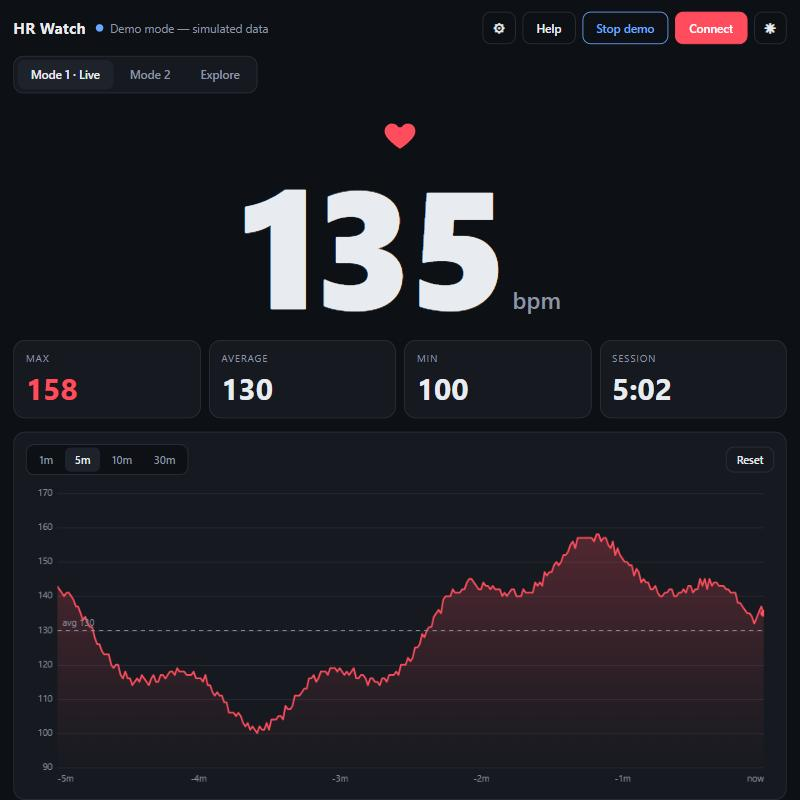
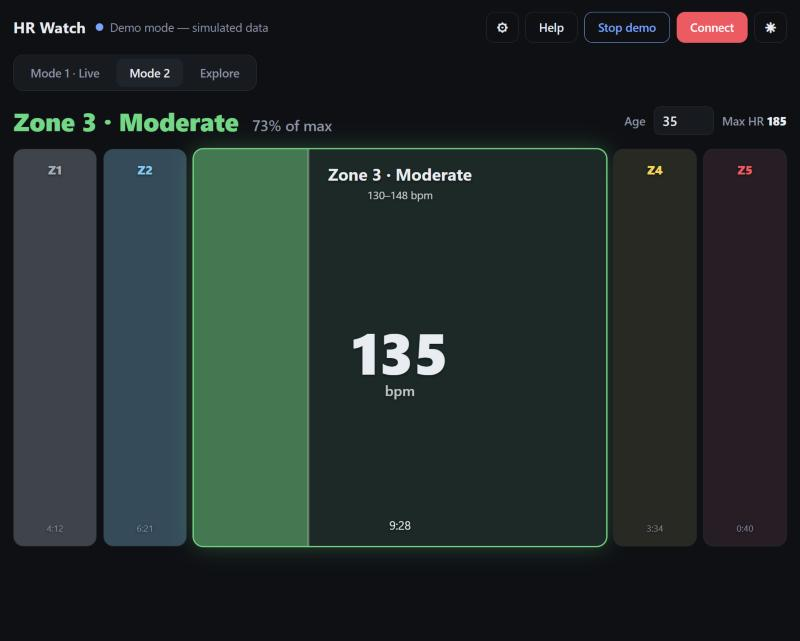
Dim the Mode 2 zone cursor and move it behind the text
The bright white cursor with a glow was drawn on top of the zone
labels and the big BPM number, covering them as it moved across.

- Draw the cursor behind the text layer (z-index 0 vs 1)
- Faint gray instead of white: 22% white in dark mode,
  22% dark gray in light mode
- 3px wide instead of 4px, glow removed (--cursor-glow deleted)

diff --git a/style.css b/style.css
@@ -17,8 +17,7 @@
   --tooltip-bg: #262c35;
   --shadow: rgba(0, 0, 0, 0.5);
   --backdrop: rgba(0, 0, 0, 0.6);
-  --cursor: #ffffff;                       /* Mode 2 zone cursor */
-  --cursor-glow: rgba(255, 255, 255, 0.8);
+  --cursor: rgba(255, 255, 255, 0.22);     /* Mode 2 zone cursor: faint, sits behind the text */
   --zone-shadow: 0 1px 3px rgba(0, 0, 0, 0.5);
   --radius: 14px;
   --beat: 1s;
@@ -45,8 +44,7 @@
   --tooltip-bg: #ffffff;
   --shadow: rgba(20, 30, 50, 0.16);
   --backdrop: rgba(20, 25, 35, 0.35);
-  --cursor: #121820;
-  --cursor-glow: rgba(18, 24, 32, 0.35);
+  --cursor: rgba(18, 24, 32, 0.22);
   --zone-shadow: none;
   /* darker zone colors so they stay readable on white */
   --z1: #7d8794;
@@ -278,13 +276,13 @@ canvas { position: absolute; inset: 0; width: 100%; height: 100%; display: block
 .zone-bpm small { display: block; font-size: 0.25em; font-weight: 600; opacity: 0.8; margin-top: 4px; }
 .zone.active .zone-bpm { display: block; }
 
-/* the cursor marking where you are inside the zone */
+/* the cursor marking where you are inside the zone:
+   a faint gray line drawn behind the text (z-index 0 < .zone-content's 1), so it never covers the BPM */
 .zone-cursor {
-  position: absolute; top: 0; bottom: 0; z-index: 2;
+  position: absolute; top: 0; bottom: 0; z-index: 0;
   left: var(--pos, 0%);
-  width: 4px; margin-left: -2px;
+  width: 3px; margin-left: -1.5px;
   background: var(--cursor);
-  box-shadow: 0 0 10px var(--cursor-glow);
   opacity: 0;
   transition: left 0.8s ease, opacity 0.3s;
 }

diff --git a/README.md b/README.md
@@ -11,7 +11,7 @@
 ![No backend](https://img.shields.io/badge/backend-none-lightgrey)
 ![No tracking](https://img.shields.io/badge/tracking-none-lightgrey)
 
-<img src="docs/screenshot.jpg" alt="HR Watch showing live heart rate, session stats and a 5-minute chart" width="480">
+<img src="docs/screenshot.jpg" alt="HR Watch heart rate zones view: Zone 3 highlighted at 135 bpm, with time spent in each of the five zones" width="480">
 
 </div>
 
